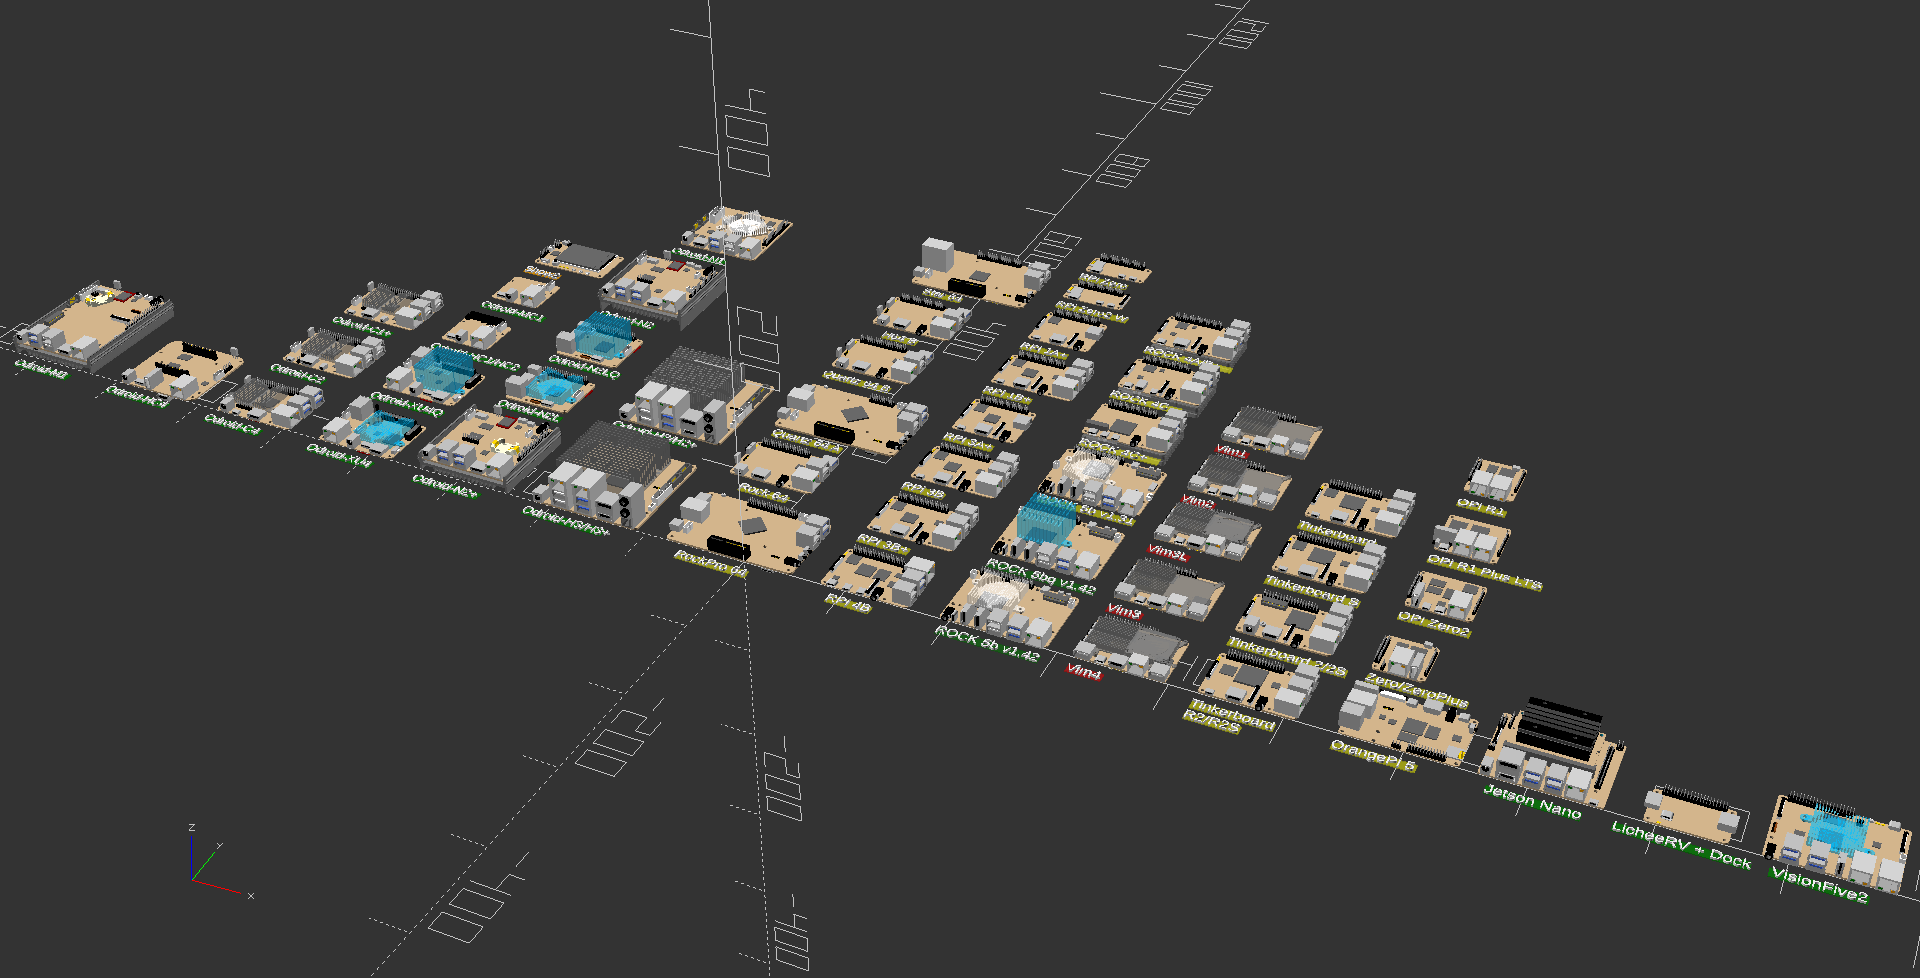
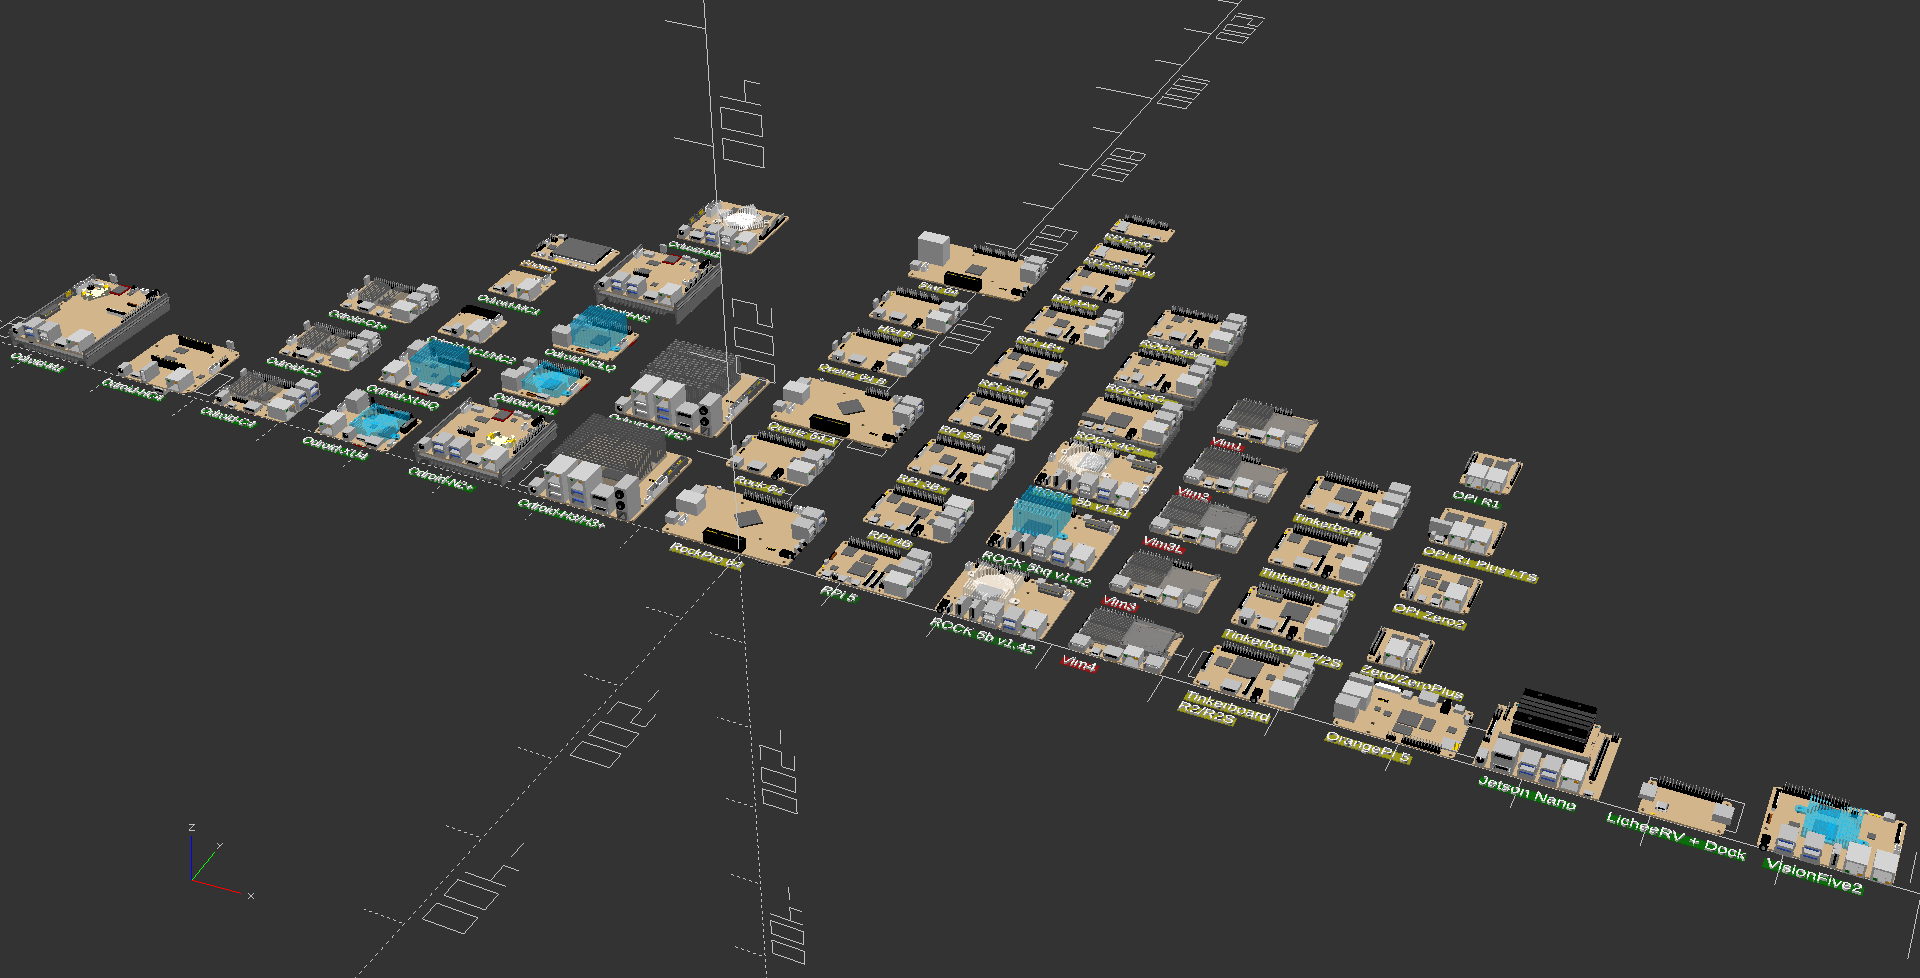
finished rpi5 and related components

diff --git a/README.md b/README.md
@@ -7,14 +7,14 @@ This project is a lightweight and dynamic framework for the generation of SBC an
 
 ![Image](sbc.png)
 
-### Current SBC: 58
+### Current SBC: 61
 
 ## Using the Framework
 
 Any of the models can be called by passing the requested SBC model in the form of sbc("model"). 
 ```
 include <sbc_models.scad>
-sbc("rpi4b");
+sbc("rpi5");
 ```
 
 ## Modifying and Adding Components
@@ -94,9 +94,9 @@ ORANGE = unverified, may be usable but missing component data.
 RED = unverified, not usable due to incomplete component data.
 ```
 
-### Hardkernel Odroid: 19
+### Hardkernel Odroid: 20
 
-c1+, c2, c4, xu4, xu4q, mc1, hc1, hc4, m1, n1, n2, n2l, n2q, n2+, h2(h2+), h3(h3+) - GREEN, verified.
+c1+, c2, c4, xu4, xu4q, mc1, hc1, hc4, m1, n1, n2/n2+, n2l, n2q, n2+, h2/h2+, h3/h3+ - GREEN, verified.
 
 show2 - ORANGE, unverified, unknown status.
 
@@ -125,11 +125,11 @@ h64b - YELLOW, unverified mostlikely usable and/or missing minor information.
 star64 - yellow, unverified mostlikely usable and/or missing minor information.
 
 
-### Raspberry Pi: 9
+### Raspberry Pi: 10
 
 All created from mechanical drawings except rpi3b+ which was contributed. The SOC data is missing for these SBC.
 
-rpizero(rpizerow) - YELLOW, unverified mostlikely usable and/or missing minor information.
+rpizero/rpizerow - YELLOW, unverified mostlikely usable and/or missing minor information.
 
 rpizero2w - YELLOW, unverified mostlikely usable and/or missing minor information.
 
@@ -144,6 +144,8 @@ rpi3b - YELLOW, unverified mostlikely usable and/or missing minor information.
 rpi3b+ - YELLOW, unverified mostlikely usable and/or missing minor information.
 
 rpi4b - YELLOW, unverified mostlikely usable and/or missing minor information.
+
+rpi5 - green, verified.
 
 
 
@@ -187,17 +189,17 @@ tinkerboard - YELLOW, unverified mostlikely usable and/or missing minor informat
 
 tinkerboard-s - YELLOW, unverified mostlikely usable and/or missing minor information.
 
-tinkerboard-2(2s) - YELLOW, unverified mostlikely usable and/or missing minor information.
+tinkerboard-2/2s - YELLOW, unverified mostlikely usable and/or missing minor information.
 
-tinkerboard-r2(r2s) - YELLOW, unverified mostlikely usable and/or missing minor information.
+tinkerboard-r2/r2s - YELLOW, unverified mostlikely usable and/or missing minor information.
 
 
 
-### OrangePi: 5
+### OrangePi: 6
 
 opi5 - YELLOW, unverified mostlikely usable and/or missing minor information.
 
-opizero(opizeroplus) - YELLOW, unverified mostlikely usable and/or missing minor information.
+opizero/opizeroplus - YELLOW, unverified mostlikely usable and/or missing minor information.
 
 opizero2 - YELLOW, unverified mostlikely usable and/or missing minor information.
 
